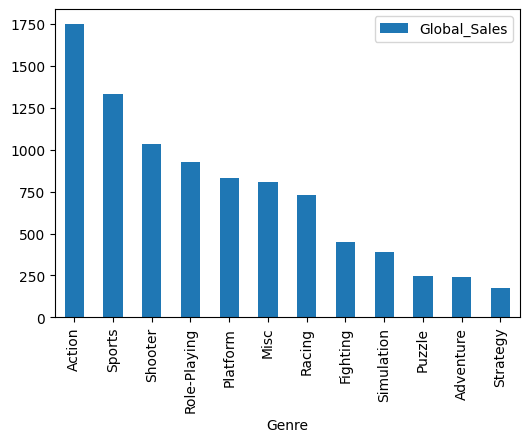
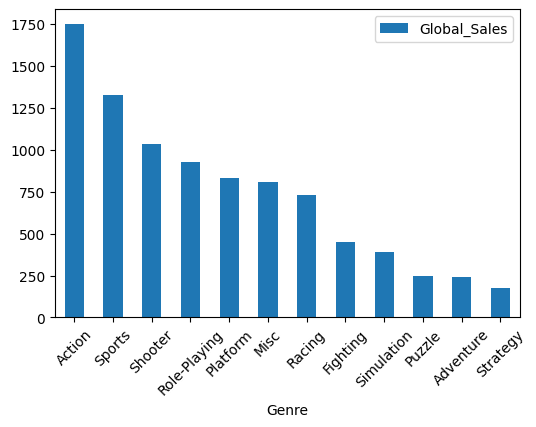
rotates the x axis ticks 45 degree

Changed region(s): [[0.0, 0.0, 0.9981, 0.9438], [0.4839, 0.9438, 0.6049, 0.9742]]

diff --git a/main.py b/main.py
@@ -7,5 +7,5 @@ vgSales = pd.read_csv(os.path.join("vgsales.csv"))
 # Find out what genre of games is most popular
 fig, ax = plt.subplots(figsize=(6,4))
 genreSales = vgSales.groupby("Genre").sum().sort_values("Global_Sales",ascending=False)
-genreSales.plot.bar(ax=ax,y=["Global_Sales"])
+genreSales.plot.bar(ax=ax,y=["Global_Sales"],rot=45)
 fig.savefig(os.path.join("Graphs","GenreSales"),bbox_inches='tight')
